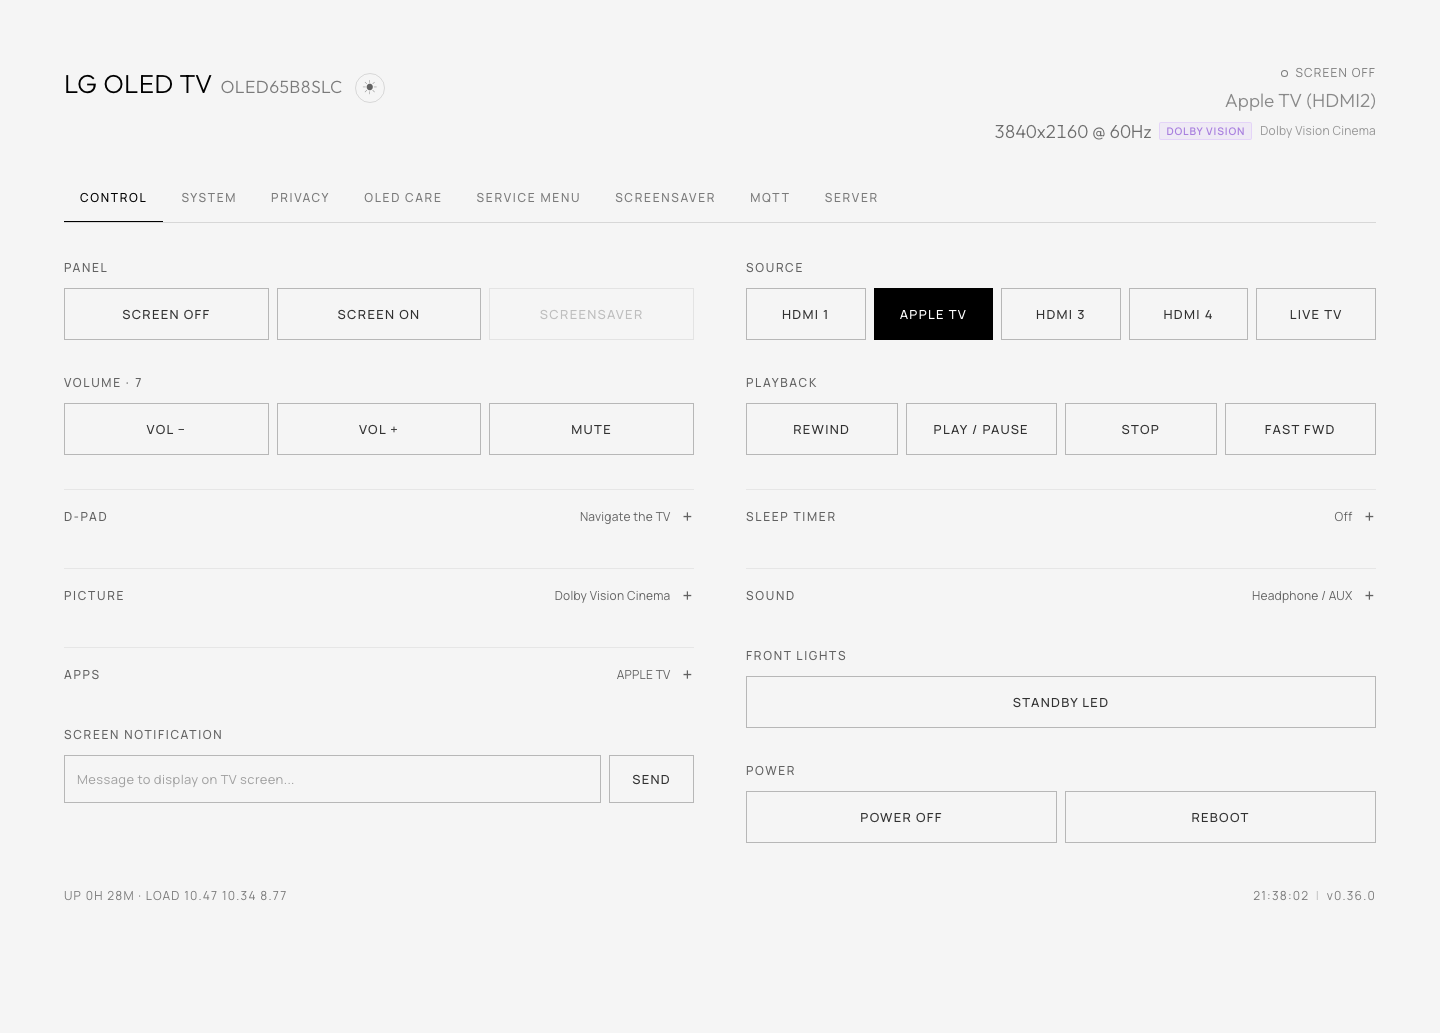
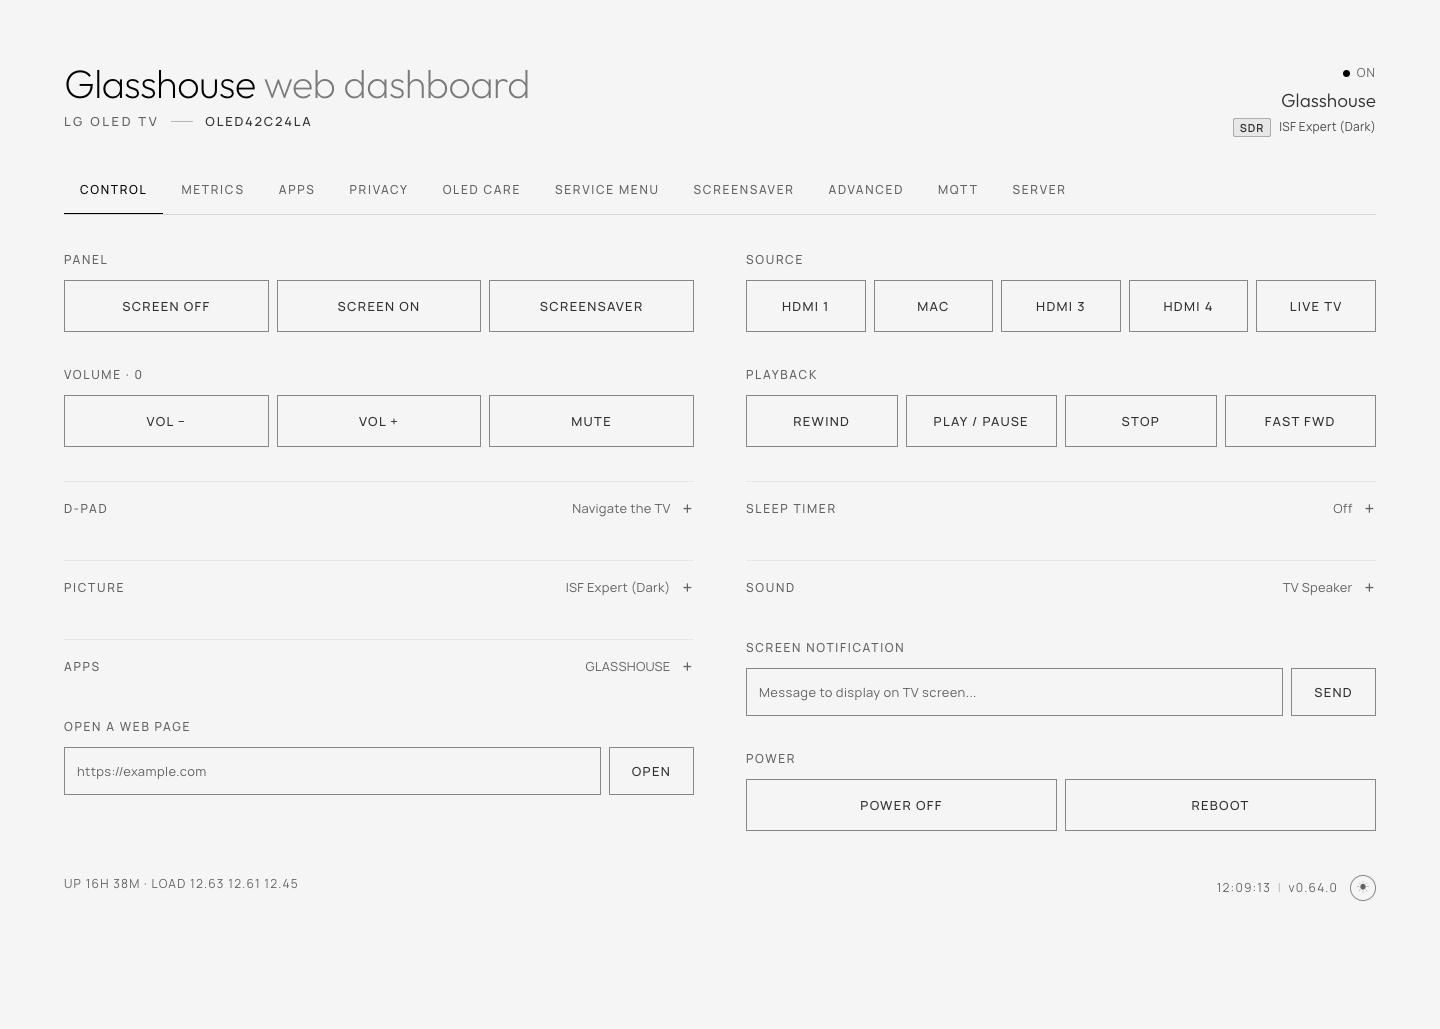
Refresh the README screenshots
Taken from 0.64.0 on an OLED42C24LA, in place of captures that predate
the Glasshouse header, the Metrics, Advanced and Server tabs, and the
Privacy overview. Advanced and Server gain screenshots of their own, and
the two cropped details move into the repository beside the rest.

diff --git a/README.md b/README.md
@@ -76,11 +76,11 @@ This project is intended to give a rooted webOS TV a useful local control surfac
 ### Web dashboard
 
 <p align="center">
-  <a href="docs/screenshots/dashboard.png"><img src="docs/screenshots/dashboard.png" alt="Metrics tab: SoC temperature, system readouts, storage and HDMI ports, dark theme (OLED65B8SLC)" width="440"></a>
+  <a href="docs/screenshots/dashboard.png"><img src="docs/screenshots/dashboard.png" alt="Metrics tab: SoC temperature, system readouts, storage, Magic Remote battery and HDMI ports, dark theme (OLED42C24LA)" width="440"></a>
   &nbsp;
-  <a href="docs/screenshots/dashboard-light.png"><img src="docs/screenshots/dashboard-light.png" alt="Control tab: panel, source, volume, playback, sleep timer and power, light theme (OLED65B8SLC)" width="440"></a>
+  <a href="docs/screenshots/dashboard-light.png"><img src="docs/screenshots/dashboard-light.png" alt="Control tab: panel, source, volume, playback, sleep timer and power, light theme (OLED42C24LA)" width="440"></a>
   <br>
-  <sub>System and Control tabs, shown in dark and light themes.</sub>
+  <sub>Metrics and Control tabs, shown in dark and light themes.</sub>
 </p>
 
 ### Home Assistant
@@ -121,6 +121,12 @@ From a browser you can navigate the TV, change inputs, control playback and volu
 
 The **Advanced** tab, `/?tab=advanced`, holds the TV's own settings that LG keeps several menus deep: Quick Boot, Wake-on-LAN, staying connected when off, the LG logo shown at power on and off, auto device detection, and the front lights. Auto device detection finds devices the TV can show on its Home Dashboard and control, from a set-top box to smart lights, plugs and switches; on newer TVs it does so by looking up every address on the home network each time the TV switches on, and switching it off stops those lookups. Each setting appears only on TVs that have it. On the TV itself they are under **System**.
 
+<p align="center">
+  <a href="docs/screenshots/advanced.png"><img src="docs/screenshots/advanced.png" alt="Advanced tab: Quick Boot, Stay connected when off with its nightly power-down hours, Wake-on-LAN, LG logo, auto device detection and the standby light" width="700"></a>
+  <br>
+  <sub>The TV's own settings, grouped as Power, Display, Devices and Front lights.</sub>
+</p>
+
 ### Telemetry and diagnostics
 
 The **Metrics** tab, `/?tab=metrics`, exposes information about what the TV is doing and what hardware it contains — most of which is absent from its own settings menu.
@@ -135,7 +141,7 @@ This is useful both for monitoring and for troubleshooting. You can see whether 
 * On demand: what is resident in memory, and which processes are using the processor right now.
 
 <p align="center">
-  <img width="432" alt="Metrics tab: processor, memory, swap, network and current draw readouts" src="https://github.com/user-attachments/assets/2e6cfe5a-c905-426e-8b4d-8f52d4f31c11" />
+  <img width="432" alt="Metrics tab: processor, memory, swap, network and current draw readouts" src="docs/screenshots/metrics-system.png" />
   <br>
   <sub>Metrics including processor, memory, swap and current draw.</sub>
 </p>
@@ -153,9 +159,9 @@ The **Apps** tab, `/?tab=apps`, gives you three different ways to manage softwar
 * **Available on TV and Web:** Manage apps from any browser or directly on the TV using the remote control in the on-TV dashboard app.
 
 <p align="center">
-  <a href="docs/screenshots/apps.png"><img src="docs/screenshots/apps.png" alt="Apps tab: installed applications with uninstall actions, and built-in system tiles with visibility toggles" width="700"></a>
+  <a href="docs/screenshots/apps.png"><img src="docs/screenshots/apps.png" alt="Apps tab: installed applications with uninstall actions, background services switched off, and saved web pages" width="700"></a>
   <br>
-  <sub>Installed applications, background services and built-in system apps.</sub>
+  <sub>Installed applications, background services and saved web pages.</sub>
 </p>
 
 ### Privacy and data collection
@@ -178,7 +184,7 @@ Two tiers are available:
 What ACR collects and what LG Ad Solutions does with it is set out in [What LG's ACR does](docs/ACR.md).
 
 <p align="center">
-  <a href="docs/screenshots/privacy.png"><img src="docs/screenshots/privacy.png" alt="Privacy tab: ad and telemetry blocker, advertising identifier, the data collection agreements grouped by subject with toggles, and what is running now" width="700"></a>
+  <a href="docs/screenshots/privacy.png"><img src="docs/screenshots/privacy.png" alt="Privacy tab: an overview of what is still on, then the ad and telemetry blocker, advertising identifier, the data collection agreements grouped by subject with toggles, and what is running now" width="700"></a>
   <br>
   <sub>Privacy controls, data agreements, advertising ID and LG telemetry blocking.</sub>
 </p>
@@ -201,7 +207,7 @@ The aim is not to encourage disabling OLED protections blindly. Instead, the das
 </p>
 
 <p align="center">
-  <img width="429" alt="Panel life: total power-on hours, panel maintenance and Pixel Refresher countdowns" src="https://github.com/user-attachments/assets/825ef48d-9560-474c-9d3e-7feb045724b5" />
+  <img width="400" alt="Panel life: total power-on hours, panel maintenance and Pixel Refresher countdowns" src="docs/screenshots/oledcare-panel.png" />
   <br>
   <sub>Panel life, maintenance and Pixel Refresher status.</sub>
 </p>
@@ -235,7 +241,7 @@ Each mode offers dim and bright variants, and visual elements continuously drift
 A firmware update restores the LG default.
 
 <p align="center">
-  <a href="docs/screenshots/screensaver.png"><img src="docs/screenshots/screensaver.png" alt="Screensaver tab: LG default, Clock, Starfield, Fireworks and Panel vitals, with a dim and bright toggle" width="700"></a>
+  <a href="docs/screenshots/screensaver.png"><img src="docs/screenshots/screensaver.png" alt="Screensaver tab: LG default, Clock, Starfield, Fireworks, Bokeh and Panel vitals, with brightness and a start button beside them" width="700"></a>
   <br>
   <sub>Built-in screen saver choices, including the panel-vitals display.</sub>
 </p>
@@ -279,6 +285,12 @@ The **Server** tab, `/?tab=server`, shows the installed version, whether a newer
 **Check daily** looks on its own and lets Home Assistant offer the update.
 
 It also adds or removes [the app on the TV's home screen](#the-dashboard-on-the-tv).
+
+<p align="center">
+  <a href="docs/screenshots/server.png"><img src="docs/screenshots/server.png" alt="Server tab: version and daily check beside the update buttons, blocking the TV's own software updates, the dashboard app on the TV, and the theme for this browser" width="700"></a>
+  <br>
+  <sub>Server and TV software updates, the dashboard app and the theme.</sub>
+</p>
 
 [Updating](#updating) covers installs from before the tab existed.
 
